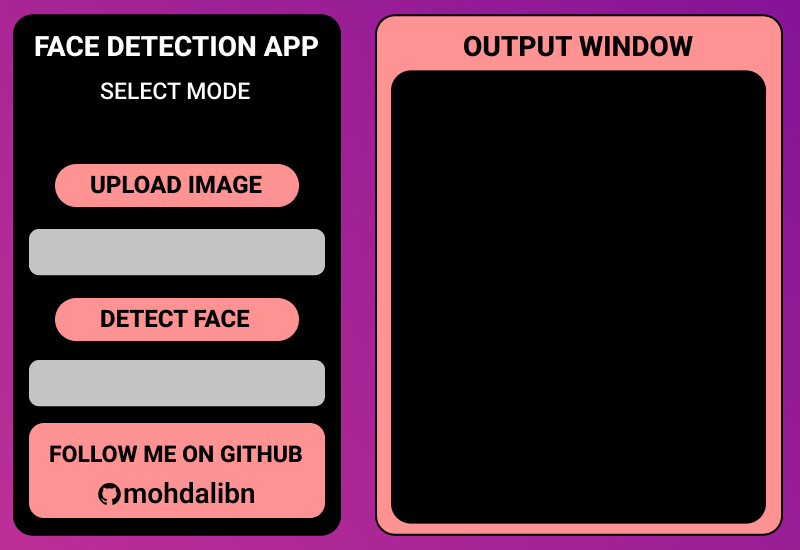
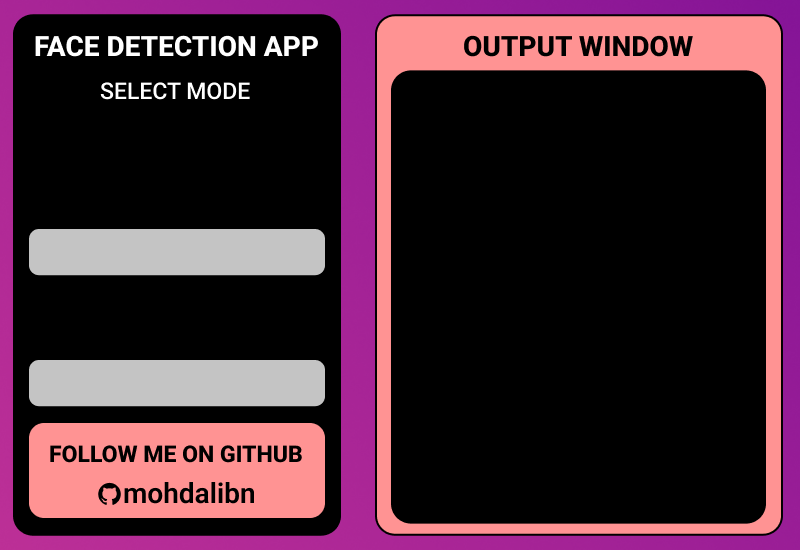
Created Canvas and uploaded the correct BG image

Changed region(s): [[0.0625, 0.2782, 0.375, 0.4018], [0.0625, 0.5255, 0.375, 0.6182]]

diff --git a/FaceDetectorApp.py b/FaceDetectorApp.py
@@ -22,6 +22,15 @@ FaceDetectionApp.geometry("800x550")  # Size of the tkinter window
 FaceDetectionApp.iconbitmap('AppImages/AppIcon.ico')
 FaceDetectionApp.configure(bg="#fff")
 
+# Creating a Canvas for the App
+canvas = Canvas(FaceDetectionApp, bg="#ffffff", height=550,
+                width=800, bd=0, highlightthickness=0, relief="ridge")
+canvas.place(x=0, y=0)
+
+# Loading the Background Image of the App
+background_img = PhotoImage(file=f"AppImages/background.png")
+background = canvas.create_image(400.0, 275.0, image=background_img)
+
 
 # Starting the Tkinter MainLoop
 FaceDetectionApp.mainloop()
